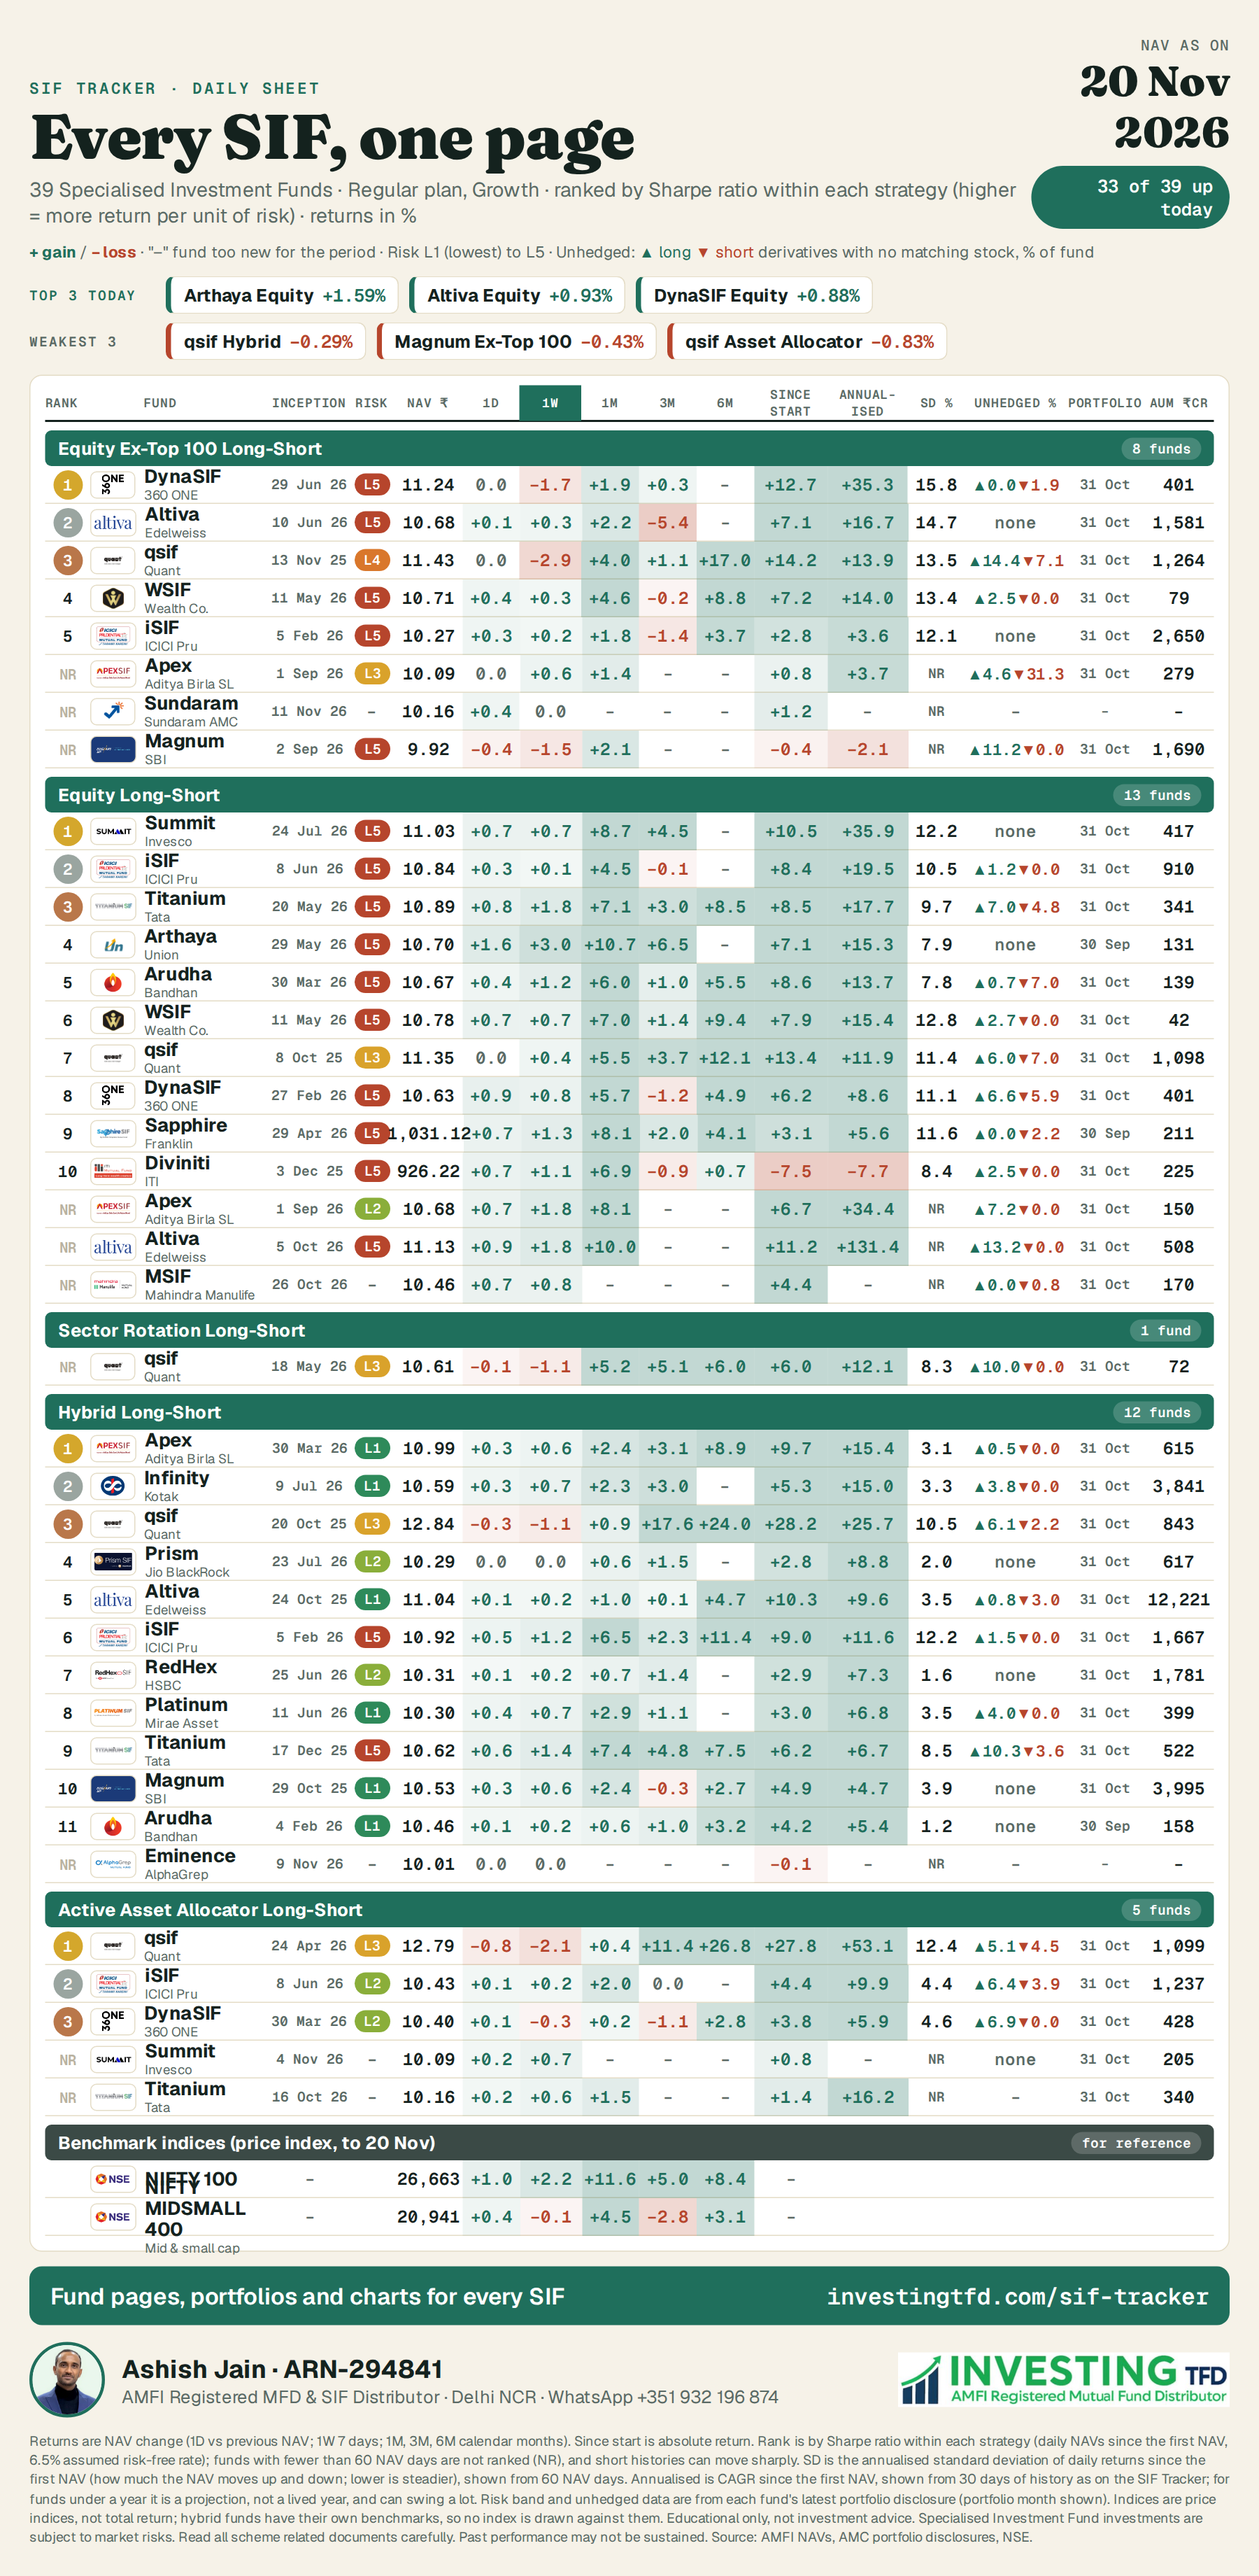
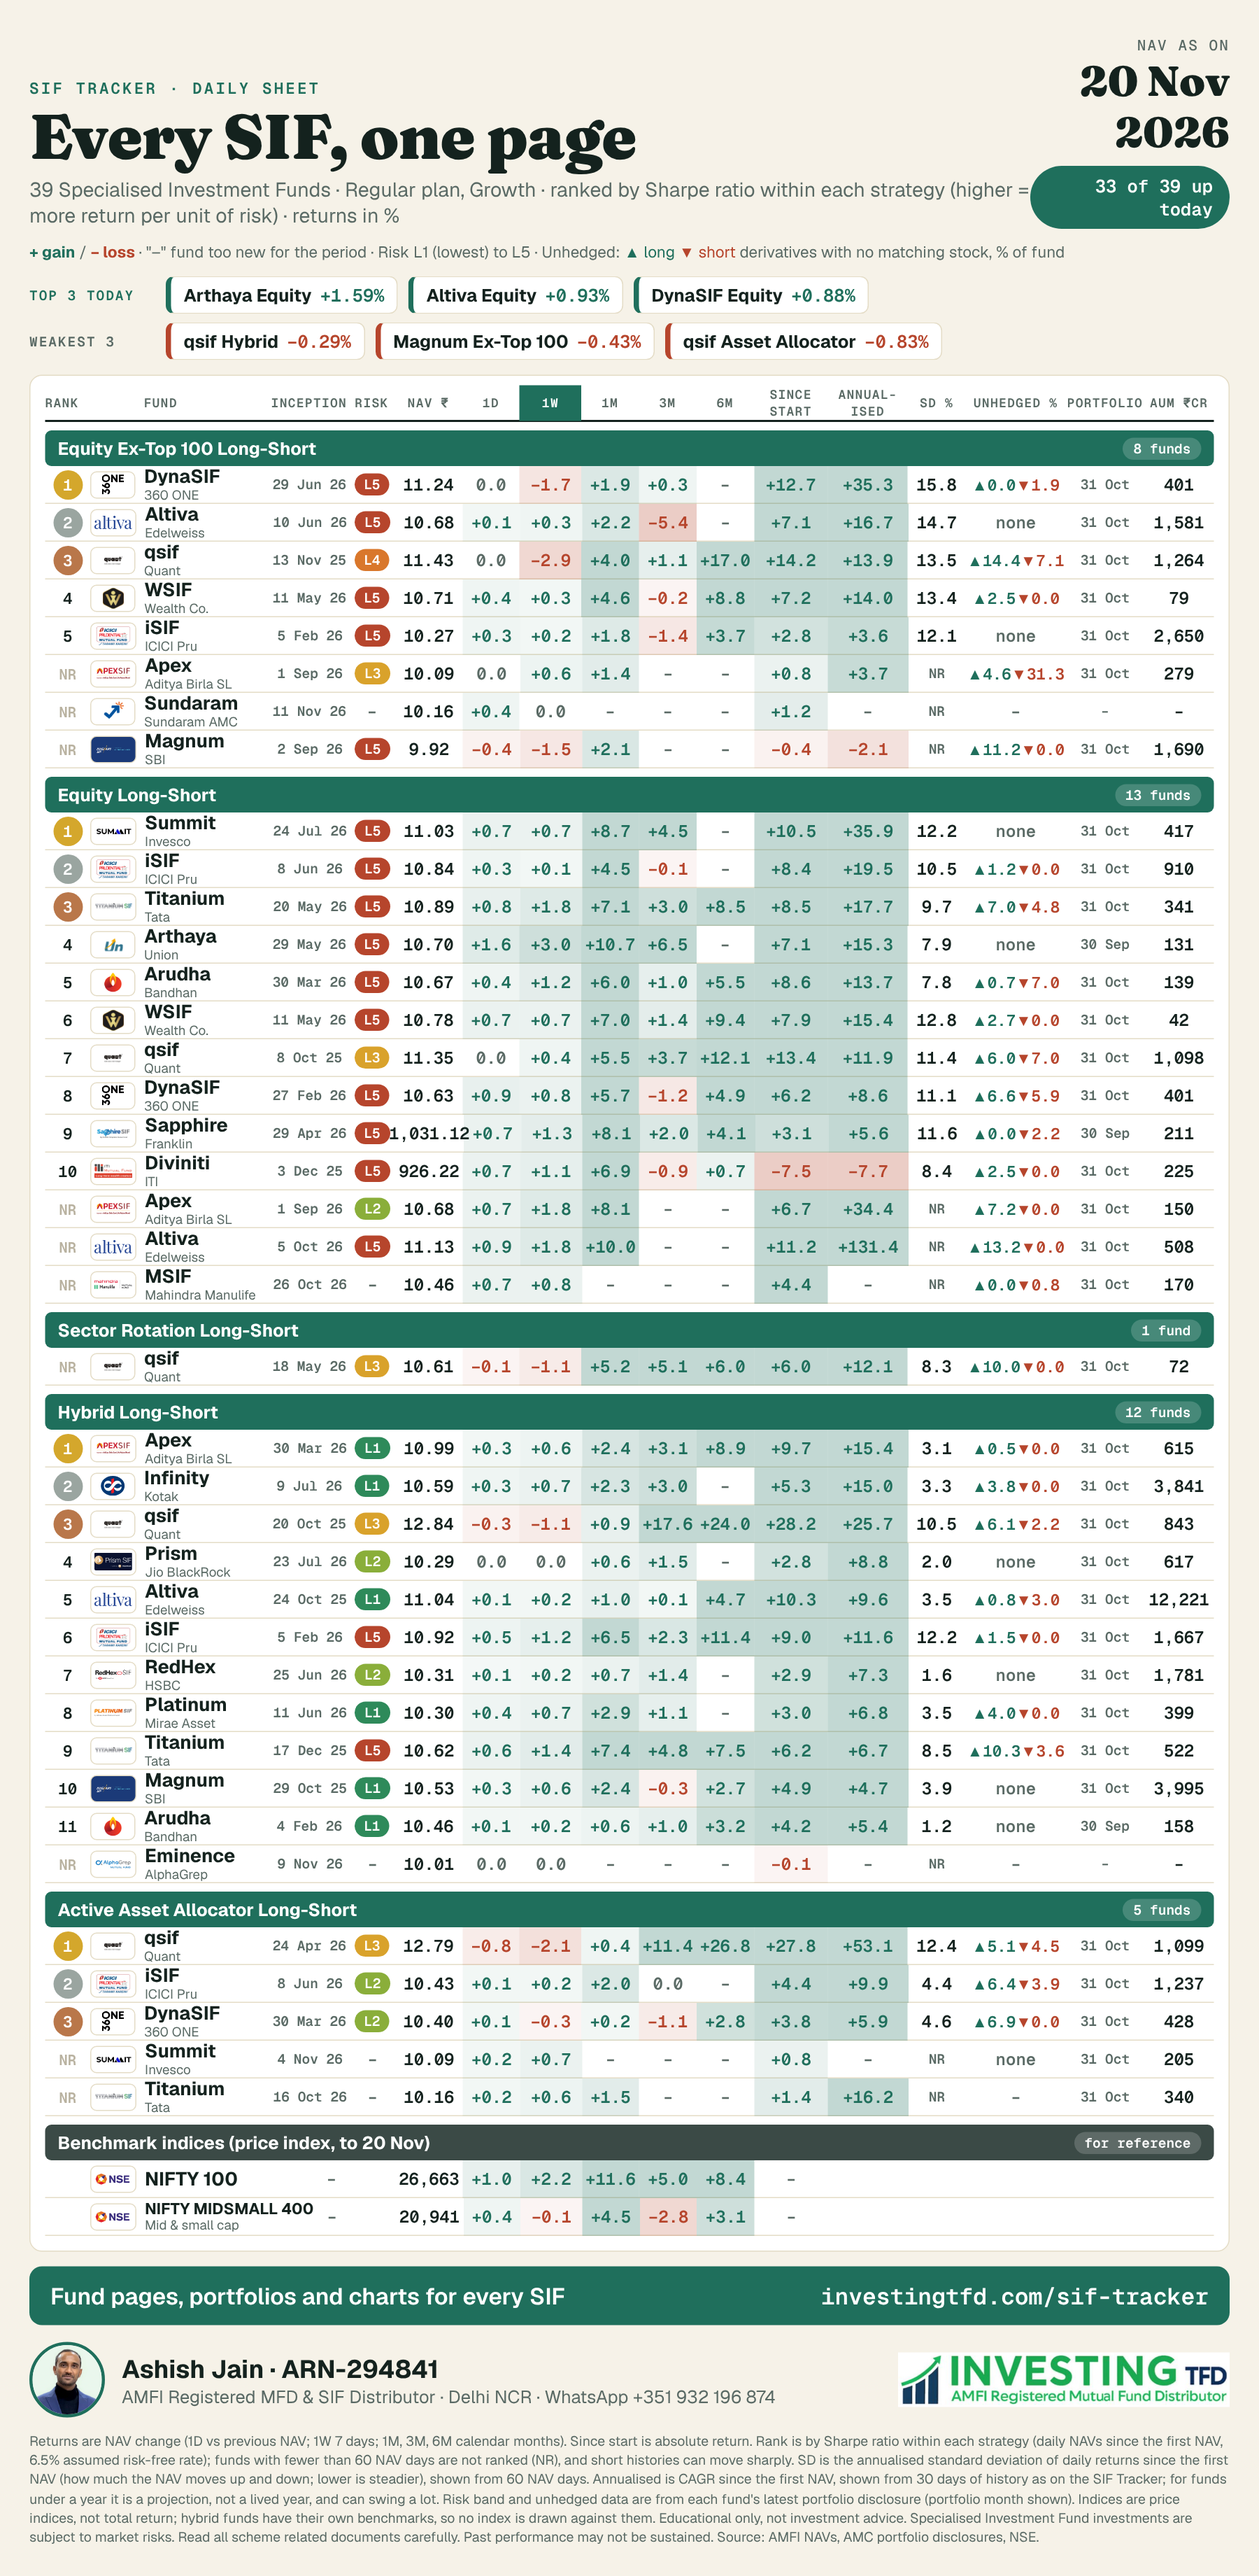
Sheet: fix benchmark row label overlap (Nifty MidSmall 400); allow FORCE_SHEET rebuild
Claude-Session: https://claude.ai/code/session_01HnNjbLtJaYRRrknwdHPKoZ

diff --git a/tools/daily_sheet/make_sheet.py b/tools/daily_sheet/make_sheet.py
@@ -72,7 +72,7 @@ missing = sorted(r['name'] + ' (' + r['last'].isoformat() + ')' for r in allr if
 _prev = None
 try: _prev = json.load(open(ROOT / 'site' / 'daily' / 'meta.json')).get('nav_date')
 except Exception: pass
-_ready = (not missing) and _prev != asof.isoformat()
+_ready = (not missing) and (_prev != asof.isoformat() or bool(os.environ.get('FORCE_SHEET')))
 _why = 'ready' if _ready else ('already built for ' + asof.isoformat() if not missing else 'waiting for NAVs: ' + '; '.join(missing))
 print('GATE:', _why)
 (ROOT / 'site' / 'daily').mkdir(parents=True, exist_ok=True)
@@ -159,7 +159,7 @@ for kind in ['Equity Ex-Top 100', 'Equity', 'Sector Rotation', 'Hybrid', 'Active
         body += f"<div class='row'>{rnk(r)}{lgo(r['prov'])}<div style='width:122px;line-height:1.1'><b>{brand}</b><div class='amc'>{AMC.get(r['prov'], '')}</div></div><div class='c' style='width:78px;color:{MU};font-size:13px'>{age(r)}</div>{rk(r['risk'])}<div class='c' style='width:66px'>{r['nav']:,.2f}</div>{d1(r)}{pc(r['1W'],60,True)}{pc(r['1M'],56)}{pc(r['3M'],56)}{pc(r['6M'],56)}{pc(r['SI'],72)}{pc(((1+r['SI']/100)**(365/r['days'])-1)*100 if (r['days']>=30 and r['SI'] is not None) else None,78)}{sdc(r)}{un(r)}<div class='c' style='width:76px;color:{MU};font-size:13px'>{pf(r)}</div><div class='c' style='width:68px'>{f"{r['aum']:,.0f}" if r['aum'] is not None else '–'}</div></div>"
 body += f"<div class='gh' style='background:#3b4a46'><span>Benchmark indices (price index, to {IXR[0]['d'].strftime('%d %b').lstrip('0')})</span><span class='gn'>for reference</span></div>"
 for x in IXR:
-    body += f"<div class='row'><div style='width:44px'></div><div style='width:44px;height:26px;margin-right:8px;border-radius:6px;border:1px solid {LINE};background:#fff;display:flex;align-items:center;justify-content:center;padding:2px 4px'><img src='file://{L}/logo-nse.png' style='max-height:20px;max-width:36px;object-fit:contain'></div><div style='width:122px;line-height:1.1'><b>{x['name'].replace('NIFTY MidSmallcap 400','NIFTY MIDSMALL 400')}</b>{"<div class='amc'>Mid &amp; small cap</div>" if 'MidSmall' in x['name'] else ''}</div><div class='c' style='width:78px;color:{MU}'>–</div><div style='width:44px'></div><div class='c' style='width:66px'>{x['nav']:,.0f}</div>{pc(x['1D'],56)}{pc(x['1W'],60,True)}{pc(x['1M'],56)}{pc(x['3M'],56)}{pc(x['6M'],56)}<div class='c' style='width:72px;color:{MU}'>–</div><div style='width:78px'></div><div style='width:56px'></div><div style='width:98px'></div><div style='width:76px'></div><div style='width:68px'></div></div>"
+    body += f"<div class='row'><div style='width:44px'></div><div style='width:44px;height:26px;margin-right:8px;border-radius:6px;border:1px solid {LINE};background:#fff;display:flex;align-items:center;justify-content:center;padding:2px 4px'><img src='file://{L}/logo-nse.png' style='max-height:20px;max-width:36px;object-fit:contain'></div><div style='width:164px;line-height:1.1;white-space:nowrap'><b style='font-size:{15 if 'MidSmall' in x['name'] else 18}px'>{x['name'].replace('NIFTY MidSmallcap 400','NIFTY MIDSMALL 400')}</b>{"<div class='amc'>Mid &amp; small cap</div>" if 'MidSmall' in x['name'] else ''}</div><div class='c' style='width:36px;color:{MU}'>–</div><div style='width:44px'></div><div class='c' style='width:66px'>{x['nav']:,.0f}</div>{pc(x['1D'],56)}{pc(x['1W'],60,True)}{pc(x['1M'],56)}{pc(x['3M'],56)}{pc(x['6M'],56)}<div class='c' style='width:72px;color:{MU}'>–</div><div style='width:78px'></div><div style='width:56px'></div><div style='width:98px'></div><div style='width:76px'></div><div style='width:68px'></div></div>"
 
 srt = sorted([r for r in allr if r['1D'] is not None], key=lambda r: -r['1D'])
 def chip(r, g):
